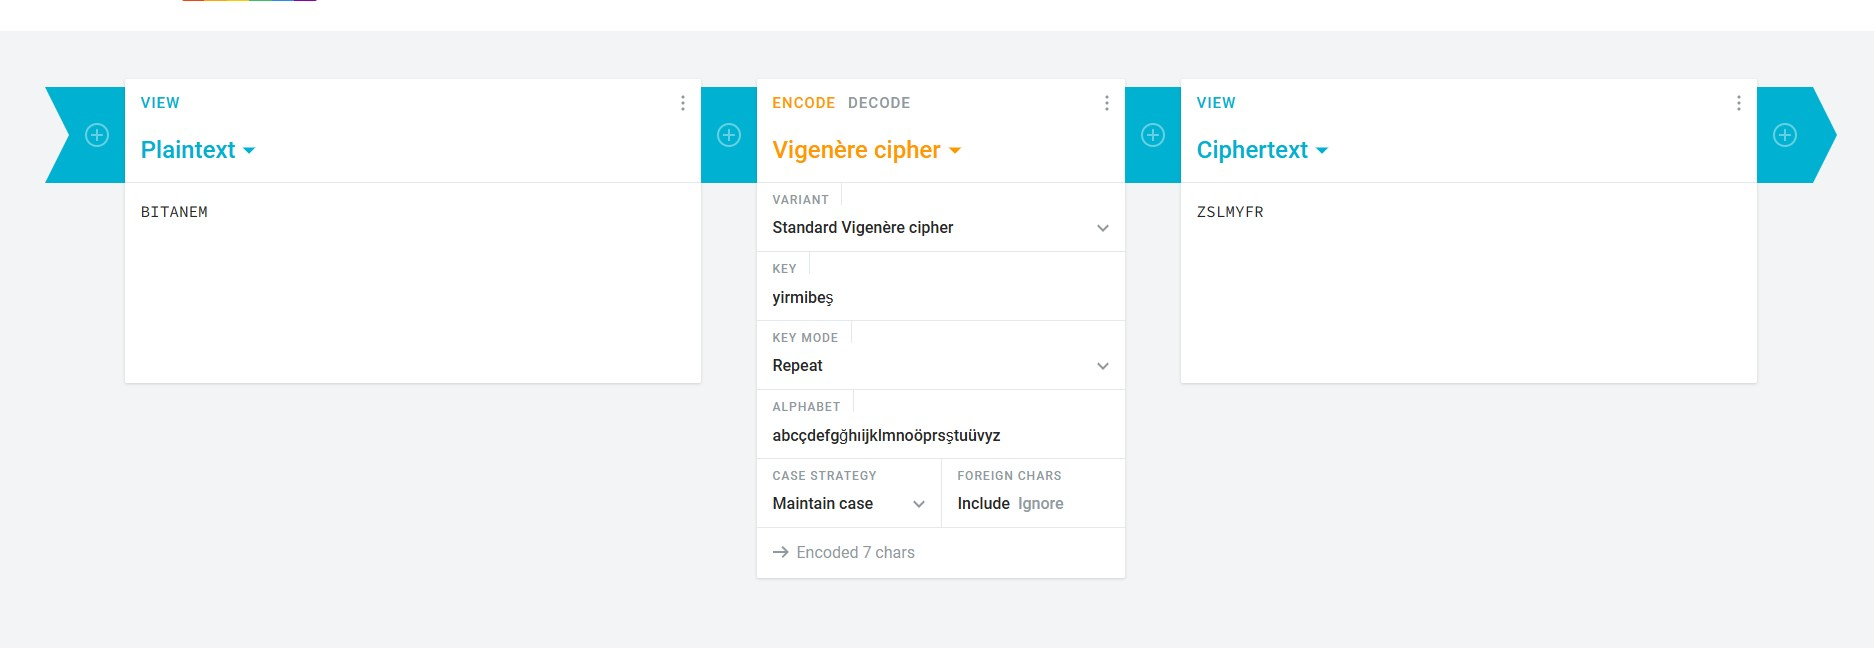
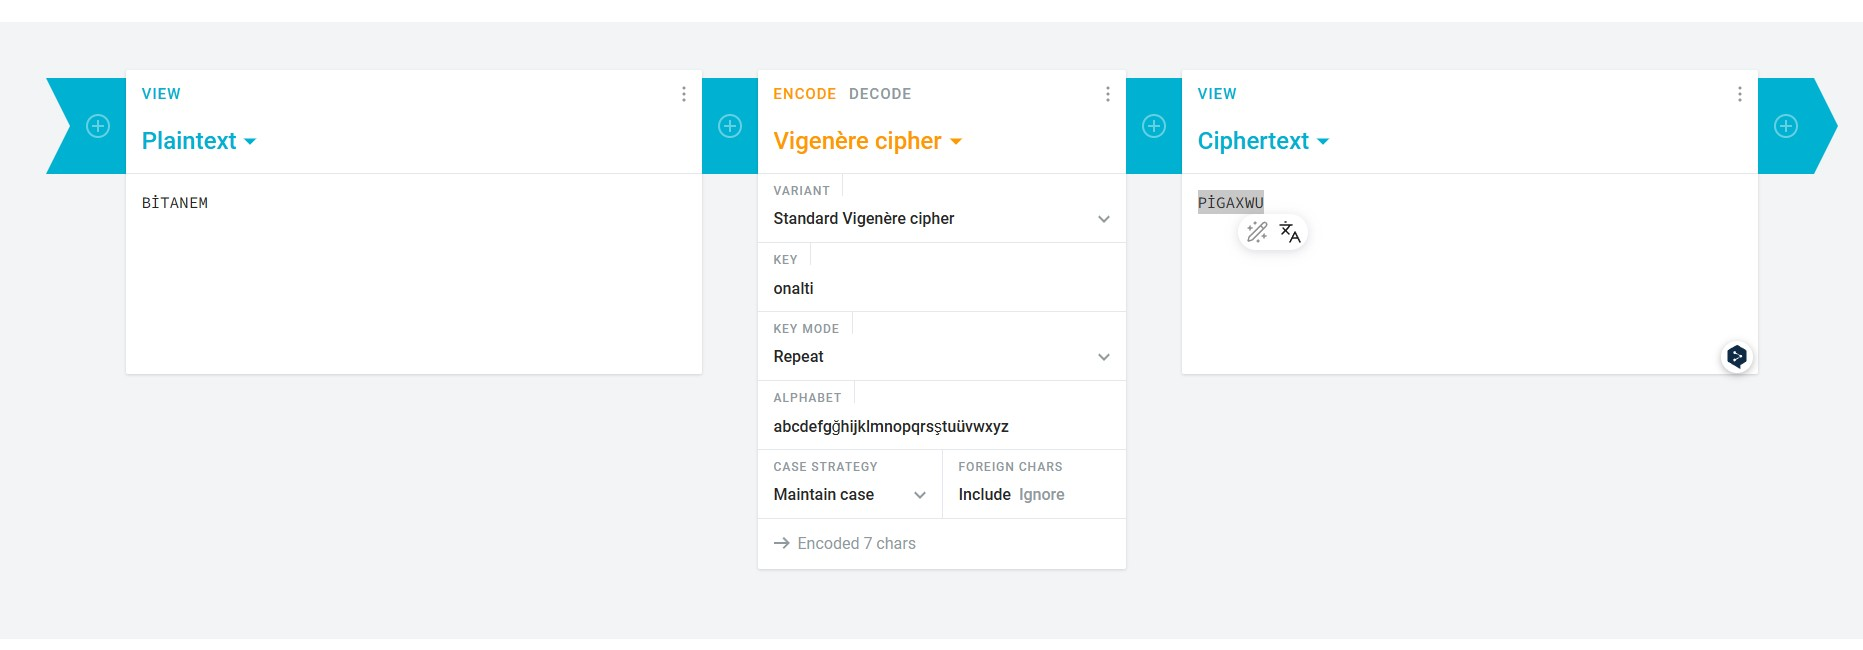
Giriş ekranı değiştirildi,kripto eklendi, hatalar düzeltildi

diff --git a/login.html b/login.html
@@ -162,7 +162,7 @@
         <div id="loginContainer" class="login-container">
             <h1 id="main-title" class="text-center text-5xl font-bold mb-4">Aşkın Kriptosu</h1>
             <div class="cipher-box">
-                <p class="cipher-text">ZİERCNN</p>
+                <p class="cipher-text">PİGAXWU</p>
                 <p class="key-clue">Anahtar:HER ŞEYİN BAŞLADIĞI TARİH RAKAMLARI TOPLAMI</p>
             </div>
             <form id="puzzleForm" class="space-y-6">
